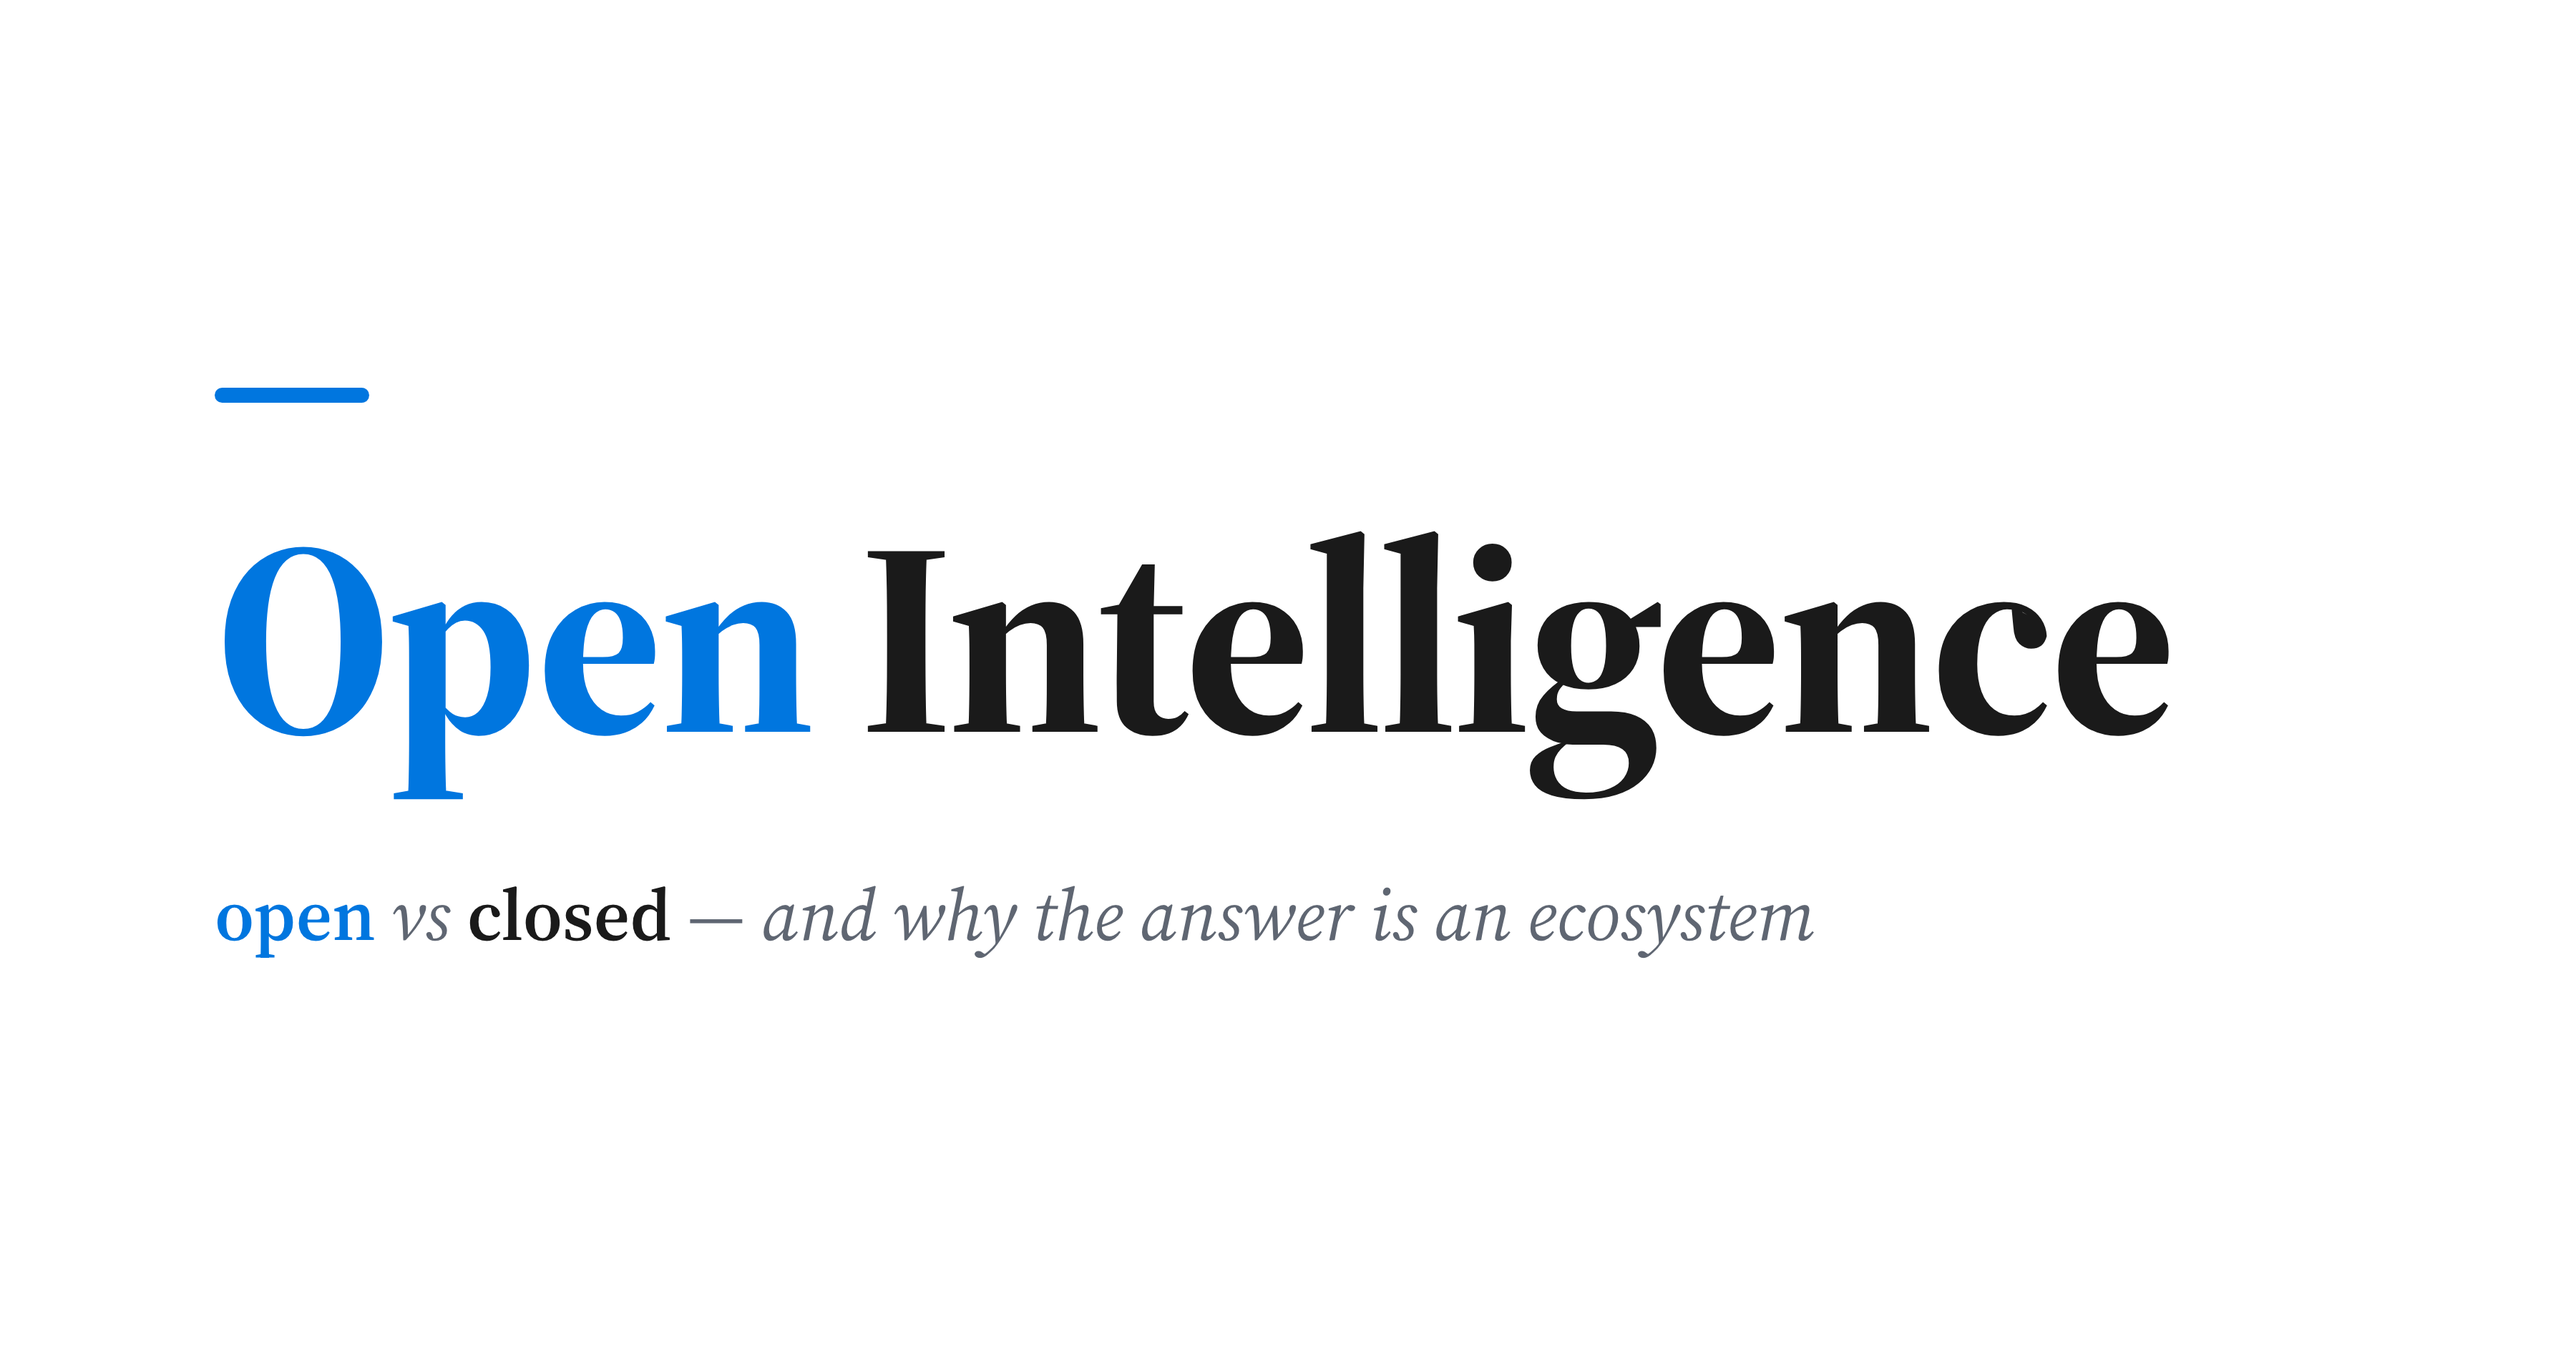
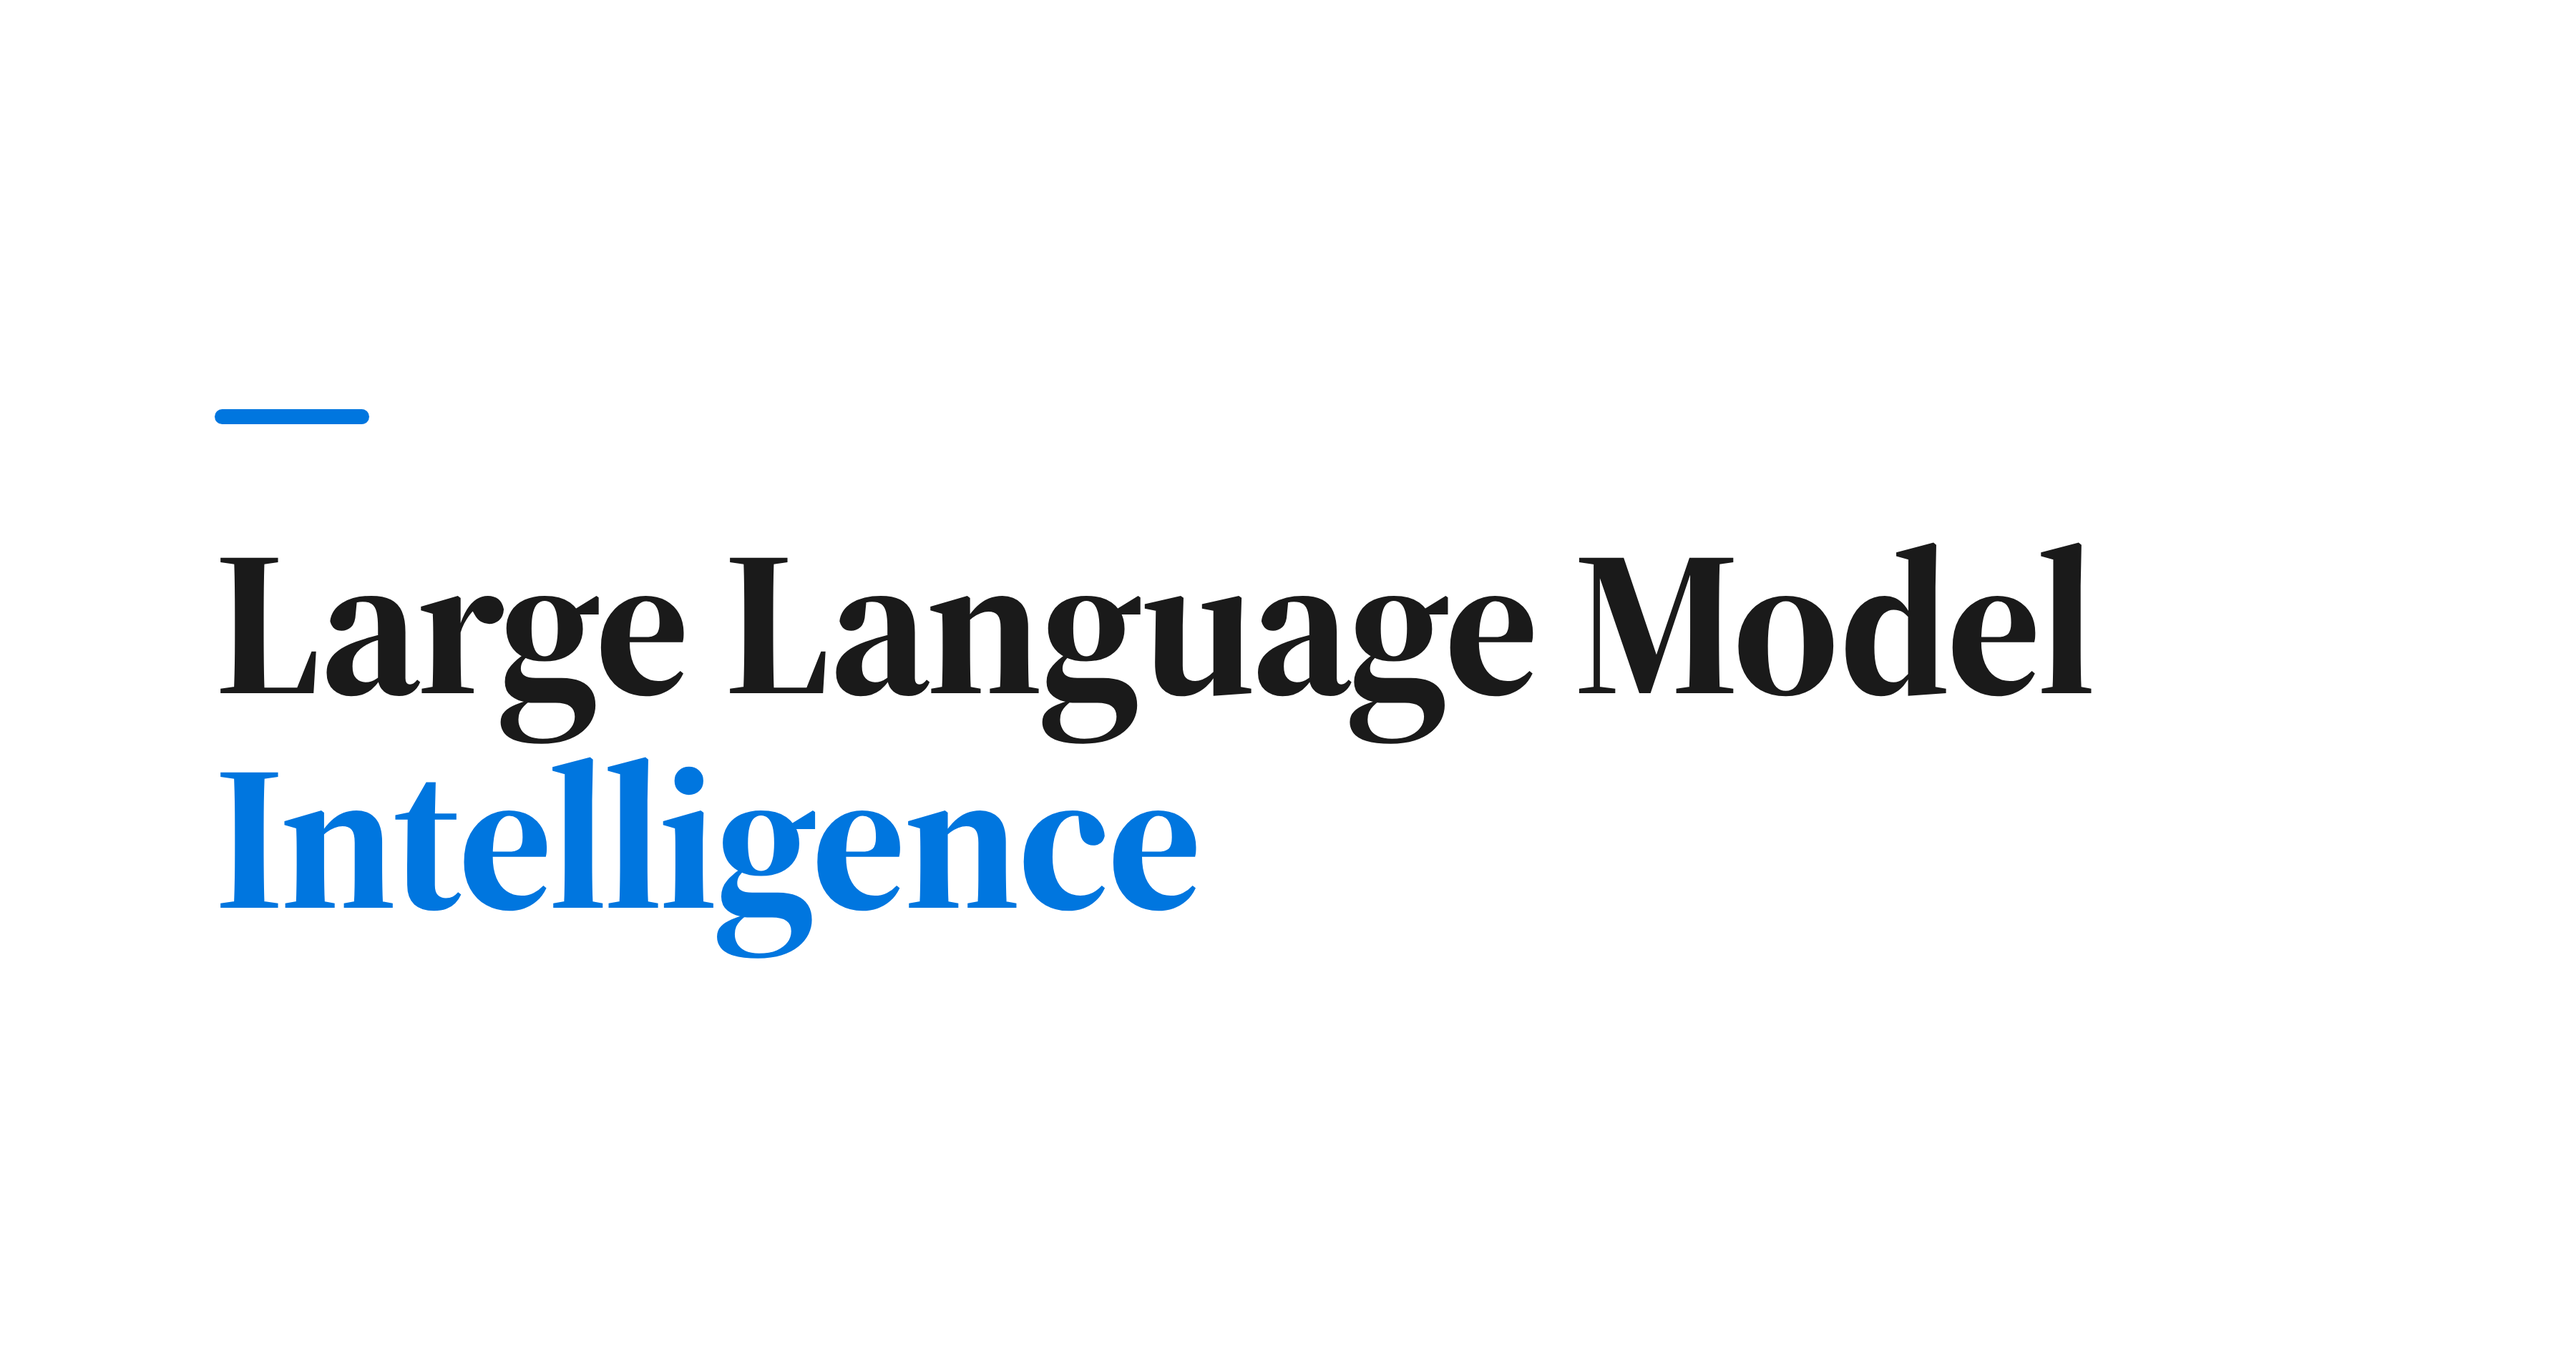
OG card: Large Language Model Intelligence (4 words)

Changed region(s): [[0.0622, 0.3746, 0.84, 0.718], [0.0622, 0.281, 0.1556, 0.3122]]

diff --git a/assets/blog/2026/openvsclosed/og-card.html b/assets/blog/2026/openvsclosed/og-card.html
@@ -21,7 +21,7 @@
   .wrap { width: 1000px; }
   .tick { width: 72px; height: 7px; border-radius: 4px; background: #0076df; margin-bottom: 42px; }
   h1 { font-family: 'Source Serif 4', Georgia, serif; font-weight: 700;
-       font-size: 128px; line-height: 1.04; letter-spacing: -0.018em; color: #1a1a1a; }
+       font-size: 96px; line-height: 1.04; letter-spacing: -0.018em; color: #1a1a1a; }
   h1 .open { color: #0076df; }
   .vs { margin-top: 40px; font-family: 'Source Serif 4', Georgia, serif; font-style: italic;
         font-size: 34px; color: #5f6672; }
@@ -32,8 +32,7 @@
 <body>
   <div class="wrap">
     <div class="tick"></div>
-    <h1><span class="open">Open</span> Intelligence</h1>
-    <div class="vs"><span class="o">open</span> vs <span class="c">closed</span> — and why the answer is an ecosystem</div>
+    <h1>Large Language Model<br><span class="open">Intelligence</span></h1>
   </div>
 </body>
 </html>
